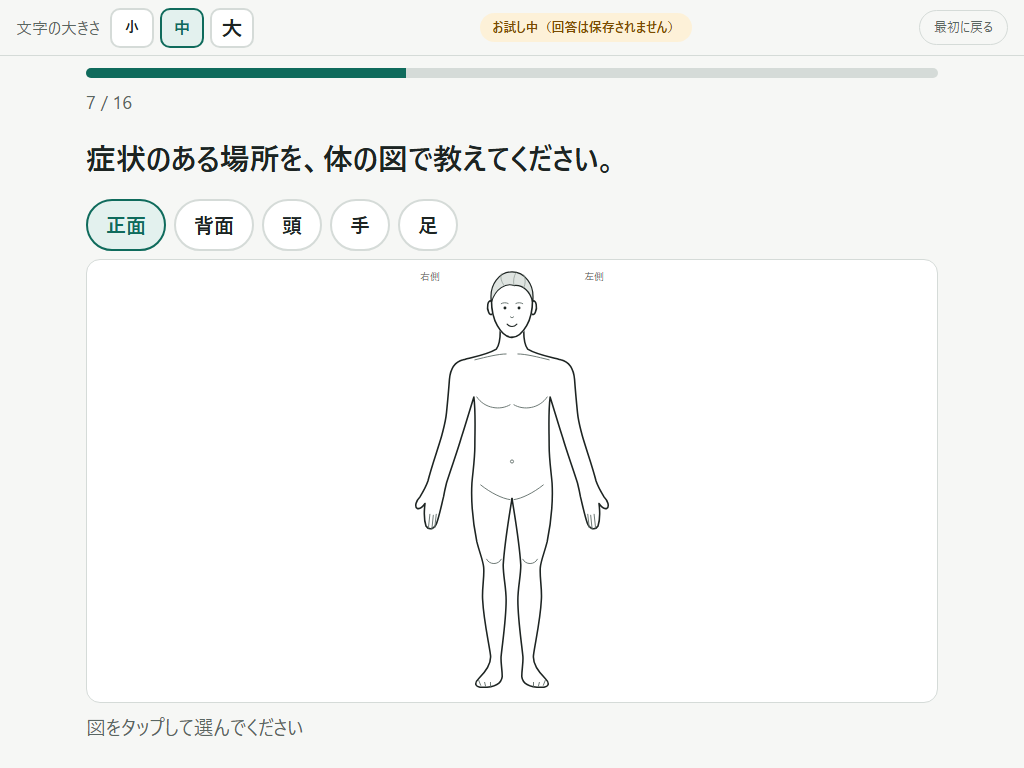
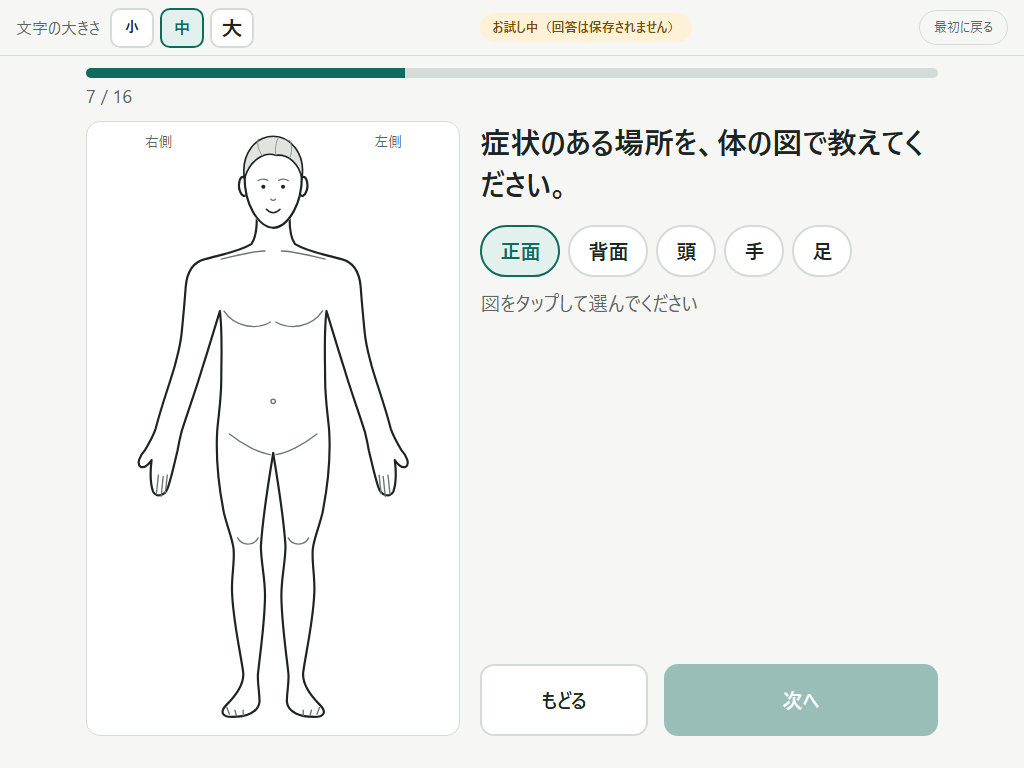
体の図の設問を、どの文字の大きさでも1画面に収める（実機での指摘）
- 図の高さを決め打ちにせず、残りを全部図に使う。「もどる・次へ」がいつも見える
- 横向きは、図を左、設問・切り替え・ボタンを右に並べる
- 縦6通り・横3通りの画面の大きさ × 小中大で、はみ出しがないことを確認
- README の画面写真を撮り直し

diff --git a/web/style.css b/web/style.css
@@ -173,6 +173,35 @@ textarea:focus, .q-input:focus { outline: 3px solid var(--accent); border-color:
 .body-selected { margin: 0; font-weight: 700; }
 .body-selected.empty { color: var(--muted); font-weight: 400; }
 
+/* 体の図の設問は、どの文字の大きさでも、スクロールなしで1画面に収める（「もどる・次へ」がいつも見える）。
+   図の高さを決め打ちにせず、ほかの部品を置いた残りを、すべて図に使う */
+.screen.fit { height: calc(var(--vh) * 100 - 48px); min-height: 0; gap: 10px; }
+body.has-topbar .screen.fit { height: calc(var(--vh) * 100 - var(--topbar) - 44px); min-height: 0; }
+.screen.fit .progress-text { margin-top: -6px; }
+.screen.fit .q-body.is-body { flex: 1 1 0; min-height: 0; }
+.screen.fit .body-box { flex: 1 1 0; min-height: 150px; position: relative; }
+.screen.fit .body-svg { position: absolute; top: 6px; left: 6px; width: calc(100% - 12px); height: calc(100% - 12px); max-height: none; }
+.screen.fit .body-selected { max-height: 3.3em; overflow-y: auto; }
+.screen.fit .nav { padding-top: 0; }
+/* 横向き：図を左いっぱいに、設問・図の切り替え・「次へ」を右に並べる（横向きは高さが足りないので、上下に積まない） */
+@media (orientation: landscape) and (min-width: 700px) {
+  .screen.fit {
+    display: grid; column-gap: 20px; row-gap: 10px;
+    grid-template-columns: minmax(0, 9fr) minmax(0, 11fr);
+    grid-template-rows: auto auto auto auto auto minmax(0, 1fr) auto auto;
+  }
+  .screen.fit > .progress { grid-area: 1 / 1 / 2 / -1; }
+  .screen.fit > .progress-text { grid-area: 2 / 1 / 3 / -1; }
+  .screen.fit > .q-text { grid-area: 3 / 2; }
+  .screen.fit > .hint { grid-area: 4 / 2; }
+  .screen.fit > .q-body.is-body { display: contents; }
+  .screen.fit .body-tabs { grid-area: 5 / 2; }
+  .screen.fit .body-selected { grid-area: 6 / 2; align-self: start; max-height: 100%; }
+  .screen.fit > .warn { grid-area: 7 / 2; }
+  .screen.fit > .nav { grid-area: 8 / 2; margin-top: 0; }
+  .screen.fit .body-box { grid-area: 3 / 1 / 9 / 2; min-height: 0; }
+}
+
 .nav { margin-top: auto; display: flex; gap: 16px; padding-top: 12px; }
 .nav .btn { flex: 1; }
 .nav .btn.primary { flex: 2; }

diff --git a/web/patient.js b/web/patient.js
@@ -271,7 +271,10 @@ function renderQuestion() {
   $("q-msg").hidden = true;
   var body = $("q-body");
   clear(body);
-  body.className = "q-body" + (q.type === "body" && S.sub !== "main" ? " is-body" : "");
+  var figure = q.type === "body" && S.sub !== "main";
+  body.className = "q-body" + (figure ? " is-body" : "");
+  // 体の図の設問は、スクロールなしで1画面に収める（style.css の .screen.fit）
+  $("s-question").className = "screen" + (figure ? " fit" : "");
   var a = S.answers[q.id] || {};
   $("btn-back").textContent = S.fromReview ? T("to_review") : T("back");
 

diff --git a/PROGRESS.md b/PROGRESS.md
@@ -152,6 +152,11 @@ aika_2回目.yaml
   作る画面は、サーバーのPC自身からしか開けないようにした。手順とチェック表30項目は docs/実機確認.md。
   `--lan` での起動そのものは、Claude は試していない（PC をネットワークに開く操作なので、里川さんが自宅の Wi-Fi で行う）。テスト45件OK
 
+- 実機確認（里川さん・iPad）：つながった。最初につながらなかったのは、案内したアドレスの1つ目が仮想アダプタのものだったため → 使うアドレスを1つに絞って案内するよう直した
+- 実機での指摘「体の図のとき、もどる・次へが画面から消える。小・中・大どれでも」→ 体の図の設問だけ、画面の高さにぴったり収める作りに変更
+  （図の高さを決め打ちにせず、残りを全部図に使う。横向きは、図を左・設問と切り替えとボタンを右に並べる）。
+  PC のブラウザで 810×1010・768×950・600×900（縦）、1080×700・1024×768・1280×720（横）× 小中大 × 選択0/6か所の全部で、はみ出し0を確認。ほかの画面は実機で問題なし
+
 ### 次にやること
 - 里川さん：作る画面の「外国語」で訳を確かめて公開（4枚×2言語）
 - GitHub公開（リポジトリ名と README の clone のURLを確認）、実機確認、動画、概要文
